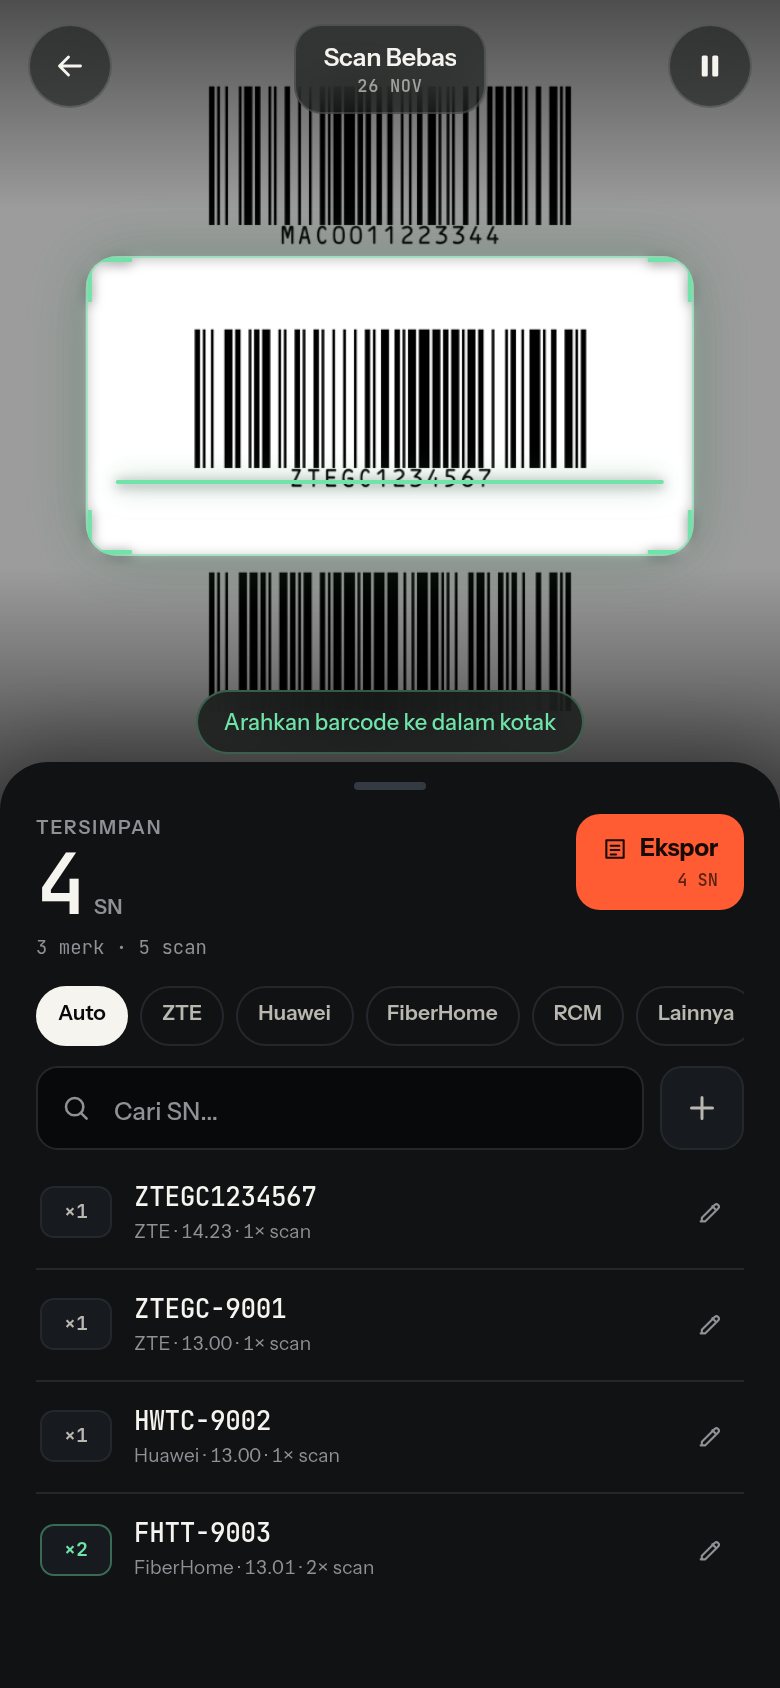
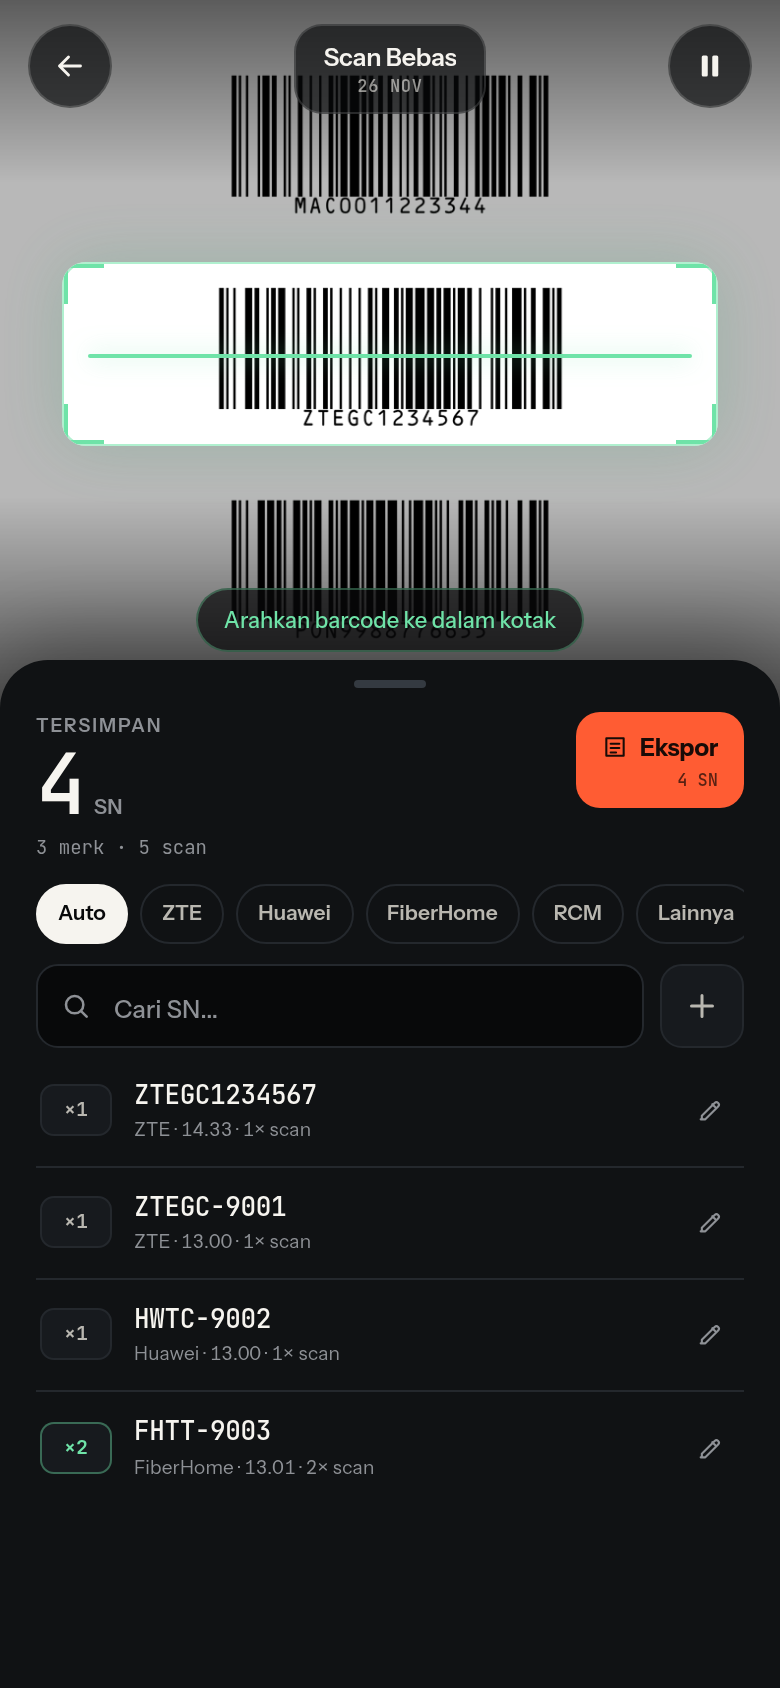
fix: restore thin scan strip and remove live blur

diff --git a/assets/styles.css b/assets/styles.css
@@ -729,7 +729,7 @@ body.in-scan .btn-danger {
 
 .camera-stage {
   position: relative;
-  flex: 0 0 clamp(300px, 48dvh, 480px);
+  flex: 0 0 42dvh;
   min-height: 0;
   overflow: hidden;
   background: #000;
@@ -759,24 +759,22 @@ body.in-scan .btn-danger {
   --frame-color: var(--accent);
   position: absolute;
   z-index: 2;
-  left: 50%;
-  top: 50%;
-  width: min(78%, 320px);
-  height: 150px;
-  transform: translate(-50%, -50%);
-  border: 1px solid rgba(255, 255, 255, 0.16);
-  border-radius: 16px;
+  left: 8%;
+  top: 37%;
+  width: 84%;
+  height: 26%;
+  border: 1px solid rgba(255, 255, 255, 0.22);
+  border-radius: 12px;
   background:
-    linear-gradient(var(--frame-color), var(--frame-color)) left top / 22px 2px no-repeat,
-    linear-gradient(var(--frame-color), var(--frame-color)) left top / 2px 22px no-repeat,
-    linear-gradient(var(--frame-color), var(--frame-color)) right top / 22px 2px no-repeat,
-    linear-gradient(var(--frame-color), var(--frame-color)) right top / 2px 22px no-repeat,
-    linear-gradient(var(--frame-color), var(--frame-color)) left bottom / 22px 2px no-repeat,
-    linear-gradient(var(--frame-color), var(--frame-color)) left bottom / 2px 22px no-repeat,
-    linear-gradient(var(--frame-color), var(--frame-color)) right bottom / 22px 2px no-repeat,
-    linear-gradient(var(--frame-color), var(--frame-color)) right bottom / 2px 22px no-repeat;
-  box-shadow: 0 0 0 100vmax rgba(0, 0, 0, 0.28);
-  filter: drop-shadow(0 1px 3px rgba(0, 0, 0, 0.55));
+    linear-gradient(var(--frame-color), var(--frame-color)) left top / 20px 2px no-repeat,
+    linear-gradient(var(--frame-color), var(--frame-color)) left top / 2px 20px no-repeat,
+    linear-gradient(var(--frame-color), var(--frame-color)) right top / 20px 2px no-repeat,
+    linear-gradient(var(--frame-color), var(--frame-color)) right top / 2px 20px no-repeat,
+    linear-gradient(var(--frame-color), var(--frame-color)) left bottom / 20px 2px no-repeat,
+    linear-gradient(var(--frame-color), var(--frame-color)) left bottom / 2px 20px no-repeat,
+    linear-gradient(var(--frame-color), var(--frame-color)) right bottom / 20px 2px no-repeat,
+    linear-gradient(var(--frame-color), var(--frame-color)) right bottom / 2px 20px no-repeat;
+  box-shadow: 0 0 0 100vmax rgba(0, 0, 0, 0.42);
   transition:
     border-color 0.15s ease,
     opacity 0.2s ease,
@@ -806,23 +804,12 @@ body.in-scan .btn-danger {
 .scan-line {
   position: absolute;
   top: 50%;
-  right: 14px;
-  left: 14px;
+  right: 12px;
+  left: 12px;
   height: 1.5px;
   border-radius: 2px;
   background: var(--frame-color);
-  box-shadow: 0 0 14px color-mix(in srgb, var(--frame-color) 65%, transparent);
-  animation: scanline 2.8s ease-in-out infinite;
-}
-
-@keyframes scanline {
-  0%,
-  100% {
-    top: 20%;
-  }
-  50% {
-    top: 80%;
-  }
+  box-shadow: 0 0 12px color-mix(in srgb, var(--frame-color) 60%, transparent);
 }
 
 .camera-top {
@@ -853,10 +840,8 @@ body.in-scan .btn-danger {
   padding: 8px 14px;
   border: 1px solid rgba(255, 255, 255, 0.14);
   border-radius: 14px;
-  background: rgba(8, 9, 10, 0.5);
+  background: rgba(8, 9, 10, 0.68);
   color: #f6f4ef;
-  backdrop-filter: blur(14px);
-  -webkit-backdrop-filter: blur(14px);
 }
 
 #camera-mode {
@@ -892,10 +877,8 @@ body.in-scan .btn-danger {
   padding: 0;
   border: 1px solid rgba(255, 255, 255, 0.16);
   border-radius: 50%;
-  background: rgba(8, 9, 10, 0.5);
+  background: rgba(8, 9, 10, 0.68);
   color: #f6f4ef;
-  backdrop-filter: blur(14px);
-  -webkit-backdrop-filter: blur(14px);
   transition:
     background 0.16s ease,
     border-color 0.16s ease,
@@ -964,7 +947,7 @@ body.in-scan .btn-danger {
   overflow: hidden;
   border: 1px solid rgba(255, 255, 255, 0.14);
   border-radius: 999px;
-  background: rgba(8, 9, 10, 0.62);
+  background: rgba(8, 9, 10, 0.72);
   color: rgba(246, 244, 239, 0.88);
   font-size: 11px;
   font-weight: 500;
@@ -972,8 +955,6 @@ body.in-scan .btn-danger {
   text-align: center;
   text-overflow: ellipsis;
   white-space: nowrap;
-  backdrop-filter: blur(14px);
-  -webkit-backdrop-filter: blur(14px);
 }
 
 .scan-hint[data-kind="hit"] {
@@ -2400,8 +2381,11 @@ body.in-scan .modal-backdrop {
   }
 
   .scan-frame {
+    left: 50%;
+    top: 50%;
     width: min(64%, 430px);
-    height: 190px;
+    height: 180px;
+    transform: translate(-50%, -50%);
   }
 
   .list-panel {
@@ -2461,8 +2445,11 @@ body.in-scan .modal-backdrop {
   }
 
   .scan-frame {
+    left: 50%;
+    top: 50%;
     width: min(70%, 360px);
     height: 120px;
+    transform: translate(-50%, -50%);
   }
 
   .list-panel {

diff --git a/HANDOFF.md b/HANDOFF.md
@@ -22,10 +22,11 @@
 
 - Shell terang warm-paper untuk home/modal, mode scan gelap imersif; aksen vermilion.
 - Font vendored: Instrument Sans + JetBrains Mono (`assets/fonts/`, OFL). Ikon PWA diperbarui.
-- Mobile-first: hero ringkas, kartu sesi, bottom sheet scan, safe-area, target sentuh besar, layout khusus layar pendek (375×667 tetap memuat CTA).
+- Mobile-first: hero ringkas, kartu sesi, bottom sheet scan, safe-area, target sentuh besar, layout khusus layar pendek (375×667 tetap memuat CTA). Kamera tetap **42dvh** dengan strip scan tipis **84% × 26%** seperti desain awal.
+- Efek blur di atas live camera dan animasi scan-line dihapus untuk menjaga performa.
 - Desktop: home dua kolom; scan dua kolom (kamera kiri, daftar kanan).
 - Semua ID, fitur, business logic, state, merk, dan ekspor dipertahankan. Satu-satunya tambahan JS: `#sheet-sub` text + theme-color dinamis.
-- Verifikasi: 38 unit test, E2E lama + collect + brands lulus, tidak ada console error; preview README diperbarui. Perf throttle 8×: raf p95 ~43 ms, worker p95 ~4,6 ms.
+- Verifikasi: 38 unit test, E2E lama + collect + brands lulus, tidak ada console error; preview README diperbarui. Perf throttle 8×: raf p95 ~36 ms, worker p95 ~2,7 ms.
 
 ## Status deploy — SELESAI (25 Nov 2026)
 
